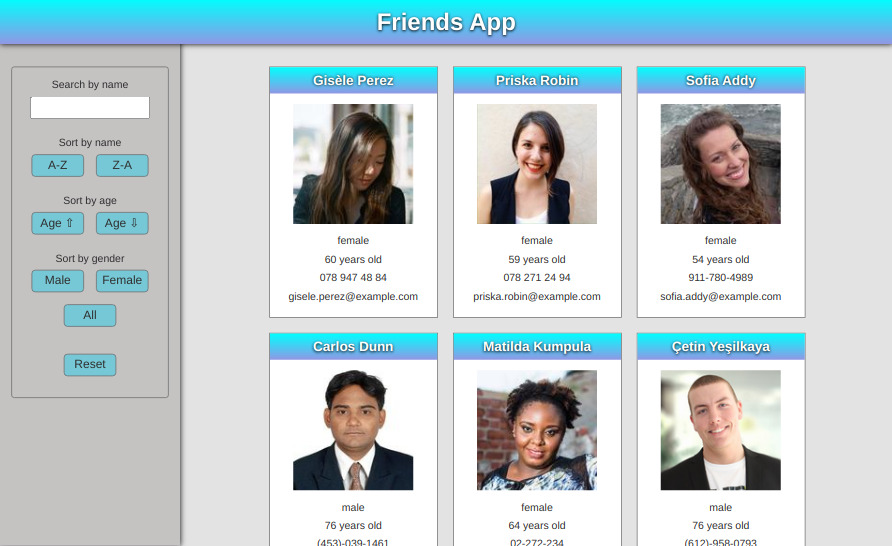
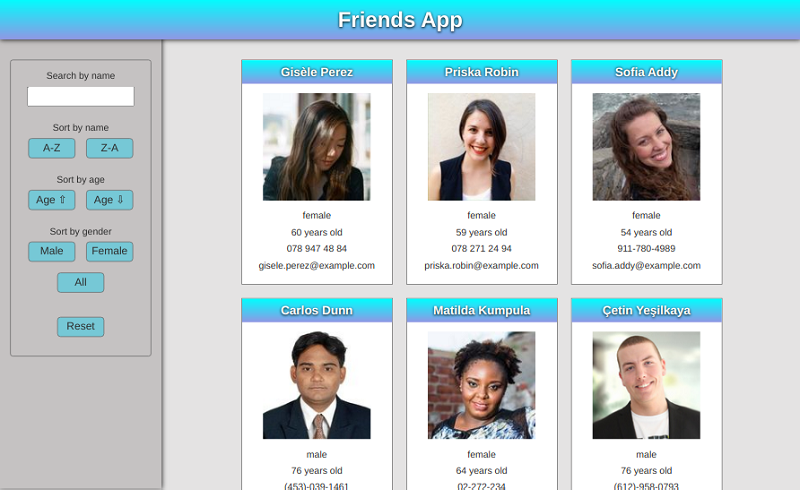
Fixed works images size

diff --git a/src/assets/img/WorkImage.jsx b/src/assets/img/WorkImage.jsx
@@ -1,3 +1,4 @@
+// The pictures size for the portfolio works is 800x490
 import React from 'react';
 import ImgStyles from './Img.module.scss';
 import keepInTouch from './works/kit.png';

diff --git a/src/data/works.js b/src/data/works.js
@@ -70,7 +70,3 @@ const works = [
 ];
 
 export default works;
-
-// Responsive 1190 x 729 75%
-// No throttling
-// (settings in google chrom for cutting images)
